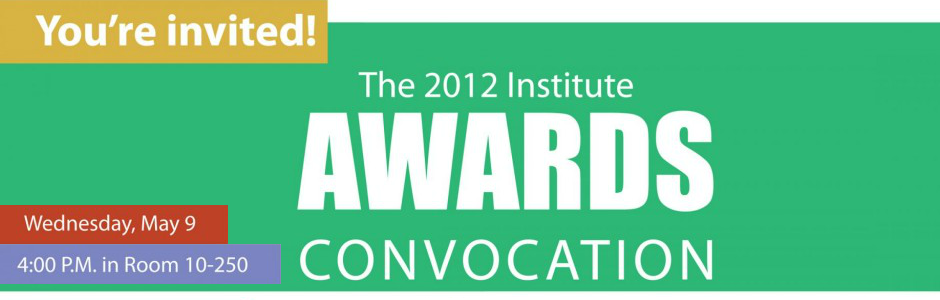
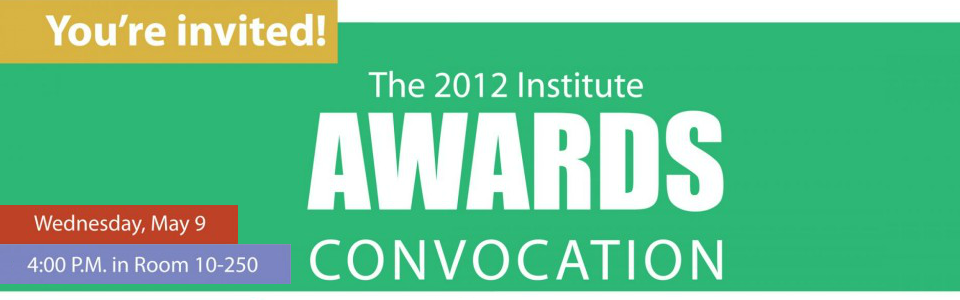
updates to ui

diff --git a/index.html b/index.html
@@ -26,6 +26,13 @@
 		
 		a {
 			border: 0;
+			font-weight: bold;
+			color: #16385C;
+			text-decoration: none;
+		}
+		
+		a:hover {
+			color: #5D99DE;
 		}
 		
 		a img {
@@ -53,11 +60,11 @@
 		}
 		
 		.left {
-			padding-right: 10px;
+			padding-right: 15px;
 		}
 		
 		.right {
-			padding-left: 10px;
+			padding-left: 15px;
 		}
 		
 		.main {
@@ -88,7 +95,6 @@
 		.menu td {
 			vertical-align: bottom;
 			min-width: 50px;
-			border: 0;
 			padding: 0px 7px 15px 7px;
 		}
 		
@@ -109,13 +115,6 @@
 		
 		.menu td a {
 			font-size: 16px;
-			font-weight: bold;
-			color: #16385C;
-			text-decoration: none;
-		}
-		
-		.menu td:not(#banner) a:hover {
-			color: #5D99DE;
 		}
 		
 		.featurebar {
@@ -146,19 +145,58 @@
 			background: url('images/videoplaceholder.png');
 		}
 		
-		.widget .video a:hover img {
-			background-position: 0 75px;
+		.widget .form {
+			margin: 0;
+			padding: 0;
+			width: 100%;
+			height: 22px;
+		}
+		
+		.widget input {
+			margin: 0;
+			padding: 0;
+			width: 201px;
+			height: 18px;
 		}
 		
 		input.subscribe {
 			border: 0;
-			width: 100px;
-			height: 25px;
+			margin: 0 0 0 5px;
+			padding: 0;
+			width: 90px;
+			height: 22px;
 			background: url('images/subscribe.png');
+			vertical-align: bottom;
 		}
 		
-		input.subscribe:hover {
-			background-position: 0 25px;
+		input.subscribe:active {
+			background-position: 0 22px;
+		}
+		
+		#upcomingevents {
+			color: #888888;
+			width: 100%;
+			height: 250px;
+			overflow-y: auto;
+		}
+		
+		#upcomingevents table {
+			width: 100%;
+			border-spacing: 0;
+		}
+		
+		#upcomingevents tr {
+			width: 100%;
+		}
+		
+		#upcomingevents td {
+			border-bottom: 1px solid #DDDDDD;
+			padding: 10px 0 10px 0;
+			text-align: justify;
+		}
+		
+		#upcomingevents tr:first-child td {
+			padding-top: 0;
 		}
 		
 		.footer {
@@ -209,14 +247,21 @@
 		</div>
 		<div class="grid_4 widget left right">
 			<article>
-				<h1>Lorem ipsum</h1>
-				<p>Lorem ipsum dolor sit amet, consectetur adipiscing elit. Proin eu leo sollicitudin, aliquam sapien consectetur, posuere augue. Phasellus ut feugiat erat. Vestibulum in turpis aliquam, sodales magna et, malesuada metus. Fusce adipiscing euismod sapien. Fusce eleifend pretium nulla, at convallis magna tempus vitae. Ut tristique, nibh ac ornare...</p>
+				<h1>Upcoming Events</h1>
+				<p />
+				<div id="upcomingevents">
+					<table>
+						<tr><td><a href="">2012 Internship Networking Exclusive</a><br />Tuesday, Dec 4, 2012, 7:00 PM @ Marriott Hyatt</td></tr>
+						<tr><td><a href="">2012 Awards Convocation</a><br />Wednesday, May 9, 2012, 4:00 PM @ 10-250</td></tr>
+					</table>
+				</div>
 			</article>
 		</div>
 		<div class="grid_4 widget right">
 			<article>
 				<h1>Join Our Mailing List</h1>
-				<p><form><input type="text" placeholder="Email address"><input type="submit" value="" class="subscribe"></form></p>
+				<p><form><input type="text" placeholder="your-email@mit.edu"><input type="submit" value="" class="subscribe"></form></p>
+				<p>Sign up to hear about upcoming networking events, panel discussions, and more!</p>
 			</article>
 		</div>
 		<div class="clear"></div>
@@ -248,7 +293,7 @@
 			
 			function initialize() {
 				$( '.bxSlider' ).bxSlider({
-					slideWidth: 940
+					slideWidth: 960
 				});
 			}
 			

diff --git a/960grid/code/css/960_12_col.css b/960grid/code/css/960_12_col.css
@@ -23,7 +23,7 @@ body {
 .container_12 {
   margin-left: auto;
   margin-right: auto;
-  width: 940px;
+  width: 960px;
 }
 
 /* `Grid >> Global
@@ -120,7 +120,7 @@ body {
 }
 
 .container_12 .grid_12 {
-  width: 940px;
+  width: 960px;
 }
 
 /* `Prefix Extra Space >> 12 Columns
